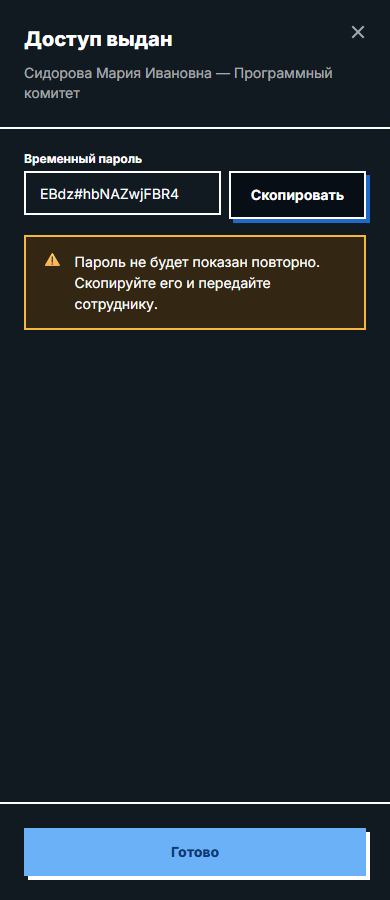
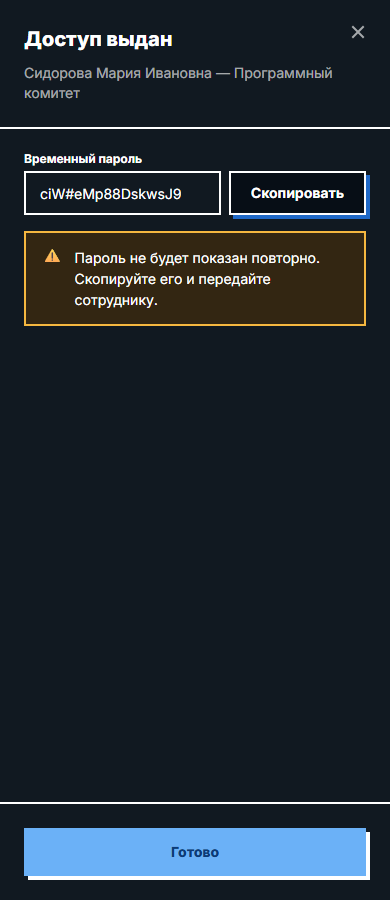
fix(2901): temporary-password field and copy button share the control height
Button gains size="field" (h-11, default horizontal padding): the field
control height of Input / NativeSelect / Combobox. The default size is
padding-driven and rendered 48px beside the 44px field. The «Доступы»
temporary-password row uses it; the e2e asserts equal heights.

Claude-Session: https://claude.ai/code/session_01Az2buKXwC85E6Ax5gA4vnv

Changed region(s): [[0.0615, 0.1867, 0.9538, 0.3733]]

diff --git a/packages/design-system/src/primitives/button.test.tsx b/packages/design-system/src/primitives/button.test.tsx
@@ -242,3 +242,29 @@ describe("Button tone (#2180, canvas ds-shell.dc.html line 36)", () => {
     expect(btn).not.toHaveAttribute("tone");
   });
 });
+
+/**
+ * The `field` size — a button that sits in one row with a text field. The
+ * field controls (`Input`, `NativeSelect`, `Combobox`) are `h-11`; the default
+ * size is padding-driven (`py-3` + the `text-sm` line box + a 2px border) and
+ * rendered 4px taller than the field beside it (#2901).
+ */
+describe("Button field size (#2901, the field control height)", () => {
+  it("shares the field control height and keeps the default horizontal padding for every variant", () => {
+    for (const variant of ["default", "outline", "secondary", "destructive"] as const) {
+      const cls = buttonVariants({ variant, size: "field" });
+      expect(cls).toMatch(/(?:^|\s)h-11(?:\s|$)/);
+      expect(cls).toMatch(/(?:^|\s)px-5(?:\s|$)/);
+      expect(cls).not.toMatch(/(?:^|\s)py-3(?:\s|$)/);
+    }
+  });
+
+  it("renders the field size on the element", () => {
+    render(
+      <Button variant="outline" size="field">
+        Copy
+      </Button>,
+    );
+    expect(screen.getByRole("button", { name: "Copy" })).toHaveClass("h-11", "px-5");
+  });
+});

diff --git a/packages/design-system/src/primitives/button.tsx b/packages/design-system/src/primitives/button.tsx
@@ -100,6 +100,13 @@ const buttonVariants = cva(
         sm: "px-4 py-2 text-caption",
         lg: "px-8 py-4",
         icon: "size-11",
+        // A button in one row with a text field: the field controls (`Input`,
+        // `NativeSelect`, `Combobox`) are `h-11`, while `default` is
+        // padding-driven and lands 4px taller once its 2px border is added, so
+        // the pair read as two sizes (#2901). Canvas: `ds-foundation.dc.html`
+        // draws the button and the field with the same 12px vertical padding
+        // and 2px border — one control height.
+        field: "h-11 px-5",
         // The on-header chip geometry of the canvas (`ds-shell.dc.html` line
         // 37): 12×22 padding at 13.5px/800. Both halves are tokens
         // (`space.3` / `space.chip-x` / `font.size.chip`), so the chip's size

diff --git a/apps/showcase/app/primitives/primitives-view.tsx b/apps/showcase/app/primitives/primitives-view.tsx
@@ -227,7 +227,7 @@ const BUTTON_VARIANTS = [
   "ghost",
   "link",
 ] as const;
-const BUTTON_SIZES = ["default", "sm", "lg", "icon"] as const;
+const BUTTON_SIZES = ["default", "sm", "lg", "icon", "field"] as const;
 
 function ButtonSection() {
   return (
@@ -297,6 +297,15 @@ function ButtonSection() {
               </Button>
             </div>
           ))}
+        </div>
+      </SubRow>
+
+      <SubRow label="size=field beside an Input (one control height)">
+        <div className="flex max-w-md gap-2">
+          <Input aria-label="Field" readOnly value="EBdz#hbNAZwjFBR4" />
+          <Button variant="outline" size="field">
+            Copy
+          </Button>
         </div>
       </SubRow>
 

diff --git a/apps/admin/e2e/staff-access.spec.ts b/apps/admin/e2e/staff-access.spec.ts
@@ -201,6 +201,12 @@ test.describe("047 «Доступы» — a platform administrator grants staff 
     await expect(admin.getByTestId("staff-access-password-copy")).toHaveText(
       "Скопировать",
     );
+    // The field and its «Скопировать» are one control height (#2901 Stage-B).
+    const fieldBox = await password.boundingBox();
+    const copyBox = await admin
+      .getByTestId("staff-access-password-copy")
+      .boundingBox();
+    expect(copyBox?.height).toBe(fieldBox?.height);
     await evidenceShot(admin, "staff-access-temp-password", {
       fullPage: false,
     });

diff --git a/apps/admin/components/staff-access-grant-form.tsx b/apps/admin/components/staff-access-grant-form.tsx
@@ -466,6 +466,7 @@ function TemporaryPassword({ password }: { password: string }) {
           <Button
             type="button"
             variant="outline"
+            size="field"
             data-testid="staff-access-password-copy"
             onClick={() => {
               void navigator.clipboard

diff --git a/.changeset/2901-button-field-size.md b/.changeset/2901-button-field-size.md
@@ -1,0 +1,6 @@
+---
+"@ds/design-system": minor
+"@ds/admin": patch
+---
+
+`Button` gains `size="field"` — a button in one row with a text field takes the field control height (`h-11`, the same as `Input` / `NativeSelect` / `Combobox`) with the default horizontal padding, for every variant. The «Доступы» temporary-password row uses it, so «Скопировать» is no longer taller than the read-only password field.
